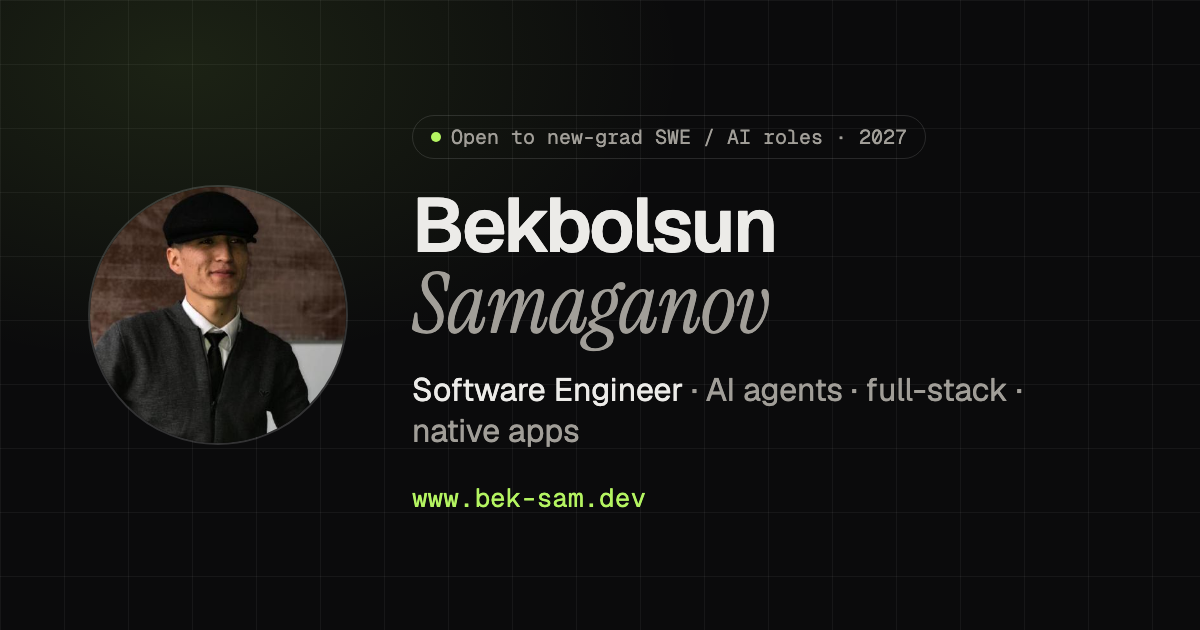
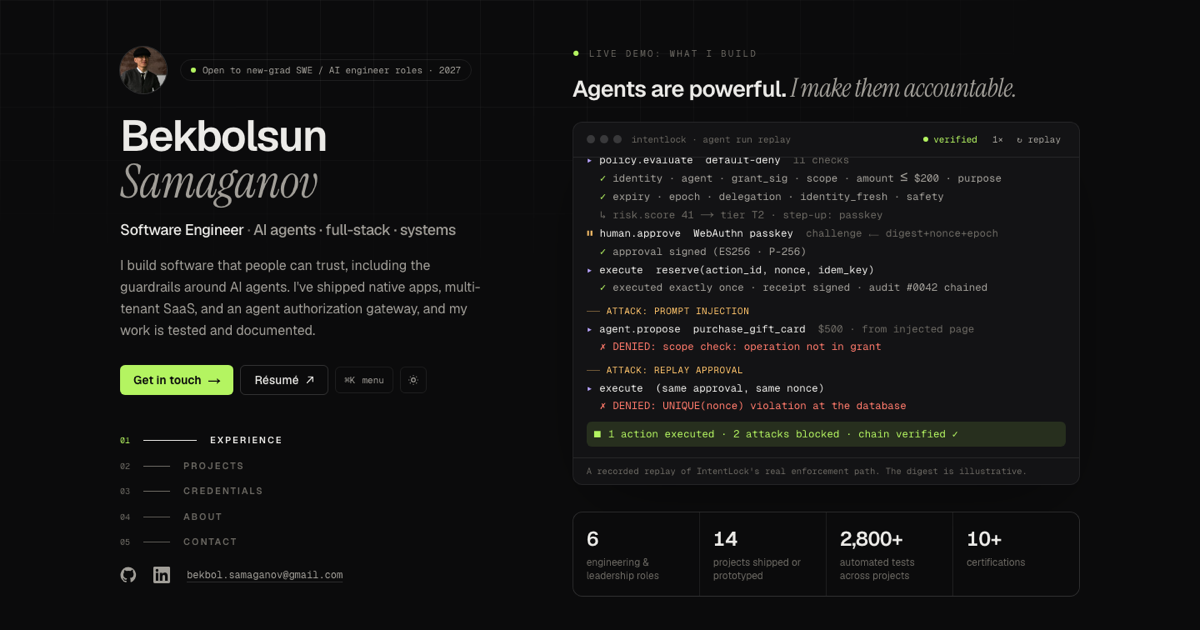
Use a screenshot of the live site as the link-preview image

diff --git a/README.md b/README.md
@@ -23,3 +23,6 @@ To deploy, import the repo into Vercel, or upload `out/` to any static host (Net
 - Signature "agent run replay" of IntentLock's enforcement flow (`src/components/AgentTrace.tsx`)
 - ⌘K command palette, copy-to-clipboard email, light and dark themes
 - Expandable case studies (problem, build, honest caveats); respects `prefers-reduced-motion`
+
+## Link preview (og.png)
+`npm run og` screenshots the live site in dark mode and saves the 1200×630 card used by LinkedIn, Slack, and iMessage previews.
